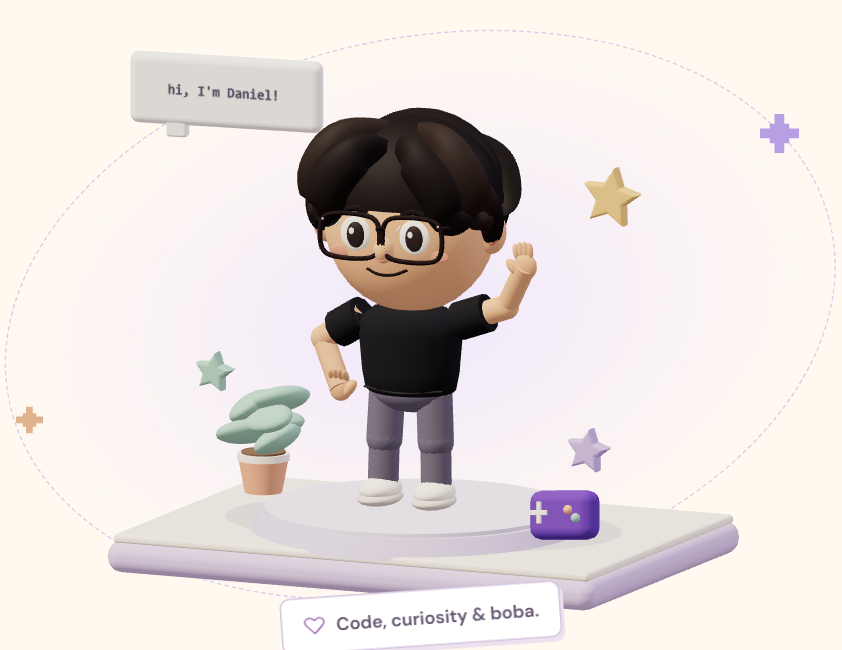
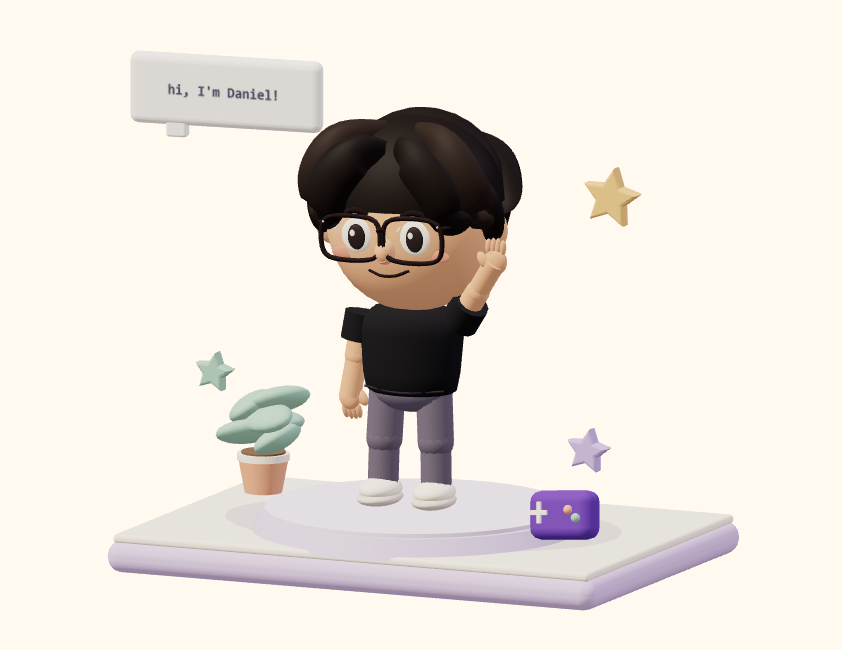
Fix wave hi intro

diff --git a/src/three/character.ts b/src/three/character.ts
@@ -1,4 +1,5 @@
 import * as THREE from 'three';
+import { GREETING_DURATION } from '../runtime/sequence';
 
 export type CharacterAction = 'wave' | 'order' | 'sip' | 'game' | 'code' | 'drink' | 'nap' | 'bench' | 'rest';
 export interface ChibiCharacter {
@@ -11,6 +12,7 @@ export interface ChibiCharacter {
 
 type Point = [number, number, number];
 const TAU = Math.PI * 2;
+const GREETING_ARM_LENGTH = .72;
 const Y_AXIS = new THREE.Vector3(0, 1, 0);
 
 /**
@@ -56,10 +58,10 @@ export function createCharacter(): ChibiCharacter {
     const mesh = new THREE.Mesh(geometry(new THREE.TubeGeometry(curve, Math.max(16, points.length * 5), width, 6, closed)), mat);
     mesh.name = name; mesh.castShadow = true; parent.add(mesh); return mesh;
   }
-  function segment(name: string, radius: number, mat: THREE.Material): THREE.Mesh {
+  function segment(name: string, radius: number, mat: THREE.Material, parent: THREE.Object3D = root): THREE.Mesh {
     const mesh = new THREE.Mesh(cylinder, mat);
     mesh.name = name; mesh.scale.set(radius, 1, radius);
-    mesh.castShadow = true; mesh.receiveShadow = true; root.add(mesh); return mesh;
+    mesh.castShadow = true; mesh.receiveShadow = true; parent.add(mesh); return mesh;
   }
 
   // T-shirt is a smooth lathed silhouette, flattened front-to-back.
@@ -177,8 +179,8 @@ export function createCharacter(): ChibiCharacter {
     mesh.scale.y = Math.max(.001, length);
     mesh.quaternion.setFromUnitVectors(Y_AXIS, direction.normalize());
   }
-  function makeHand(side: number) {
-    const group = new THREE.Group(); group.name = `${side < 0 ? 'Left' : 'Right'} wrist attachment`; root.add(group);
+  function makeHand(side: number, parent: THREE.Object3D) {
+    const group = new THREE.Group(); group.name = `${side < 0 ? 'Left' : 'Right'} wrist attachment`; parent.add(group);
     ellipsoid(group, 'Palm', [0, 0, 0], [.103, .115, .061], skin);
     const fingers: THREE.Group[] = [];
     for (let i = 0; i < 4; i++) {
@@ -190,30 +192,64 @@ export function createCharacter(): ChibiCharacter {
     return { group, fingers };
   }
   function makeArm(side: number) {
-    const shoulder = new THREE.Vector3(side * .435, 1.62, 0);
-    const upper = segment('Upper arm', .106, skin);
-    const sleeve = segment('Black T-shirt sleeve', .166, tee);
-    const forearm = segment('Forearm', .095, skin);
-    const elbowMesh = ellipsoid(root, 'Rounded elbow', [0, 0, 0], [.106, .106, .106], skin);
-    const hand = makeHand(side);
+    const shoulder = new THREE.Group();
+    shoulder.name = `${side < 0 ? 'Left' : 'Right'} shoulder pivot`;
+    shoulder.position.set(side * .435, 1.62, 0); root.add(shoulder);
+    const origin = new THREE.Vector3();
+    const upper = segment('Upper arm', .106, skin, shoulder);
+    const sleeve = segment('Black T-shirt sleeve', .166, tee, shoulder);
+    const forearm = segment('Forearm', .095, skin, shoulder);
+    const elbowMesh = ellipsoid(shoulder, 'Rounded elbow', [0, 0, 0], [.106, .106, .106], skin);
+    const hand = makeHand(side, shoulder);
     const target = new THREE.Vector3();
-    function set(x: number, y: number, z: number, fingers: number, waveAngle = 0) {
-      target.set(x, y, z); hand.group.position.copy(target); hand.group.rotation.set(0, 0, waveAngle);
+    const sleeveStart = new THREE.Vector3();
+    const handCompensation = new THREE.Quaternion();
+    function poseArm(fingers: number, handRoll: number, coverShoulder = false) {
+      hand.group.position.copy(target); hand.group.rotation.set(0, 0, handRoll);
       for (const finger of hand.fingers) finger.rotation.x = fingers;
-      // Two-segment planar IK, with the elbow biased outside the torso.
-      direction.subVectors(target, shoulder);
+      elbowMesh.position.copy(elbow);
+      connect(upper, origin, elbow); connect(forearm, elbow, target);
+      // Separate the sleeve and skin caps to prevent shoulder flickering.
+      sleeveStart.copy(elbow).normalize().multiplyScalar(coverShoulder ? -.018 : 0);
+      upperEnd.copy(elbow).multiplyScalar(.62); connect(sleeve, sleeveStart, upperEnd);
+    }
+    function set(x: number, y: number, z: number, fingers: number, handRoll = 0) {
+      shoulder.rotation.set(0, 0, 0);
+      target.set(x - shoulder.position.x, y - shoulder.position.y, z);
+      direction.copy(target);
       const distance = Math.max(.001, direction.length()); direction.divideScalar(distance);
       const armLength = .48;
       const height = Math.sqrt(Math.max(.002, armLength * armLength - distance * distance * .25));
-      bend.set(side, -.36, -.28).addScaledVector(direction, -bend.dot(direction)).normalize();
-      elbow.copy(shoulder).addScaledVector(direction, distance * .5).addScaledVector(bend, height);
-      elbowMesh.position.copy(elbow);
-      connect(upper, shoulder, elbow); connect(forearm, elbow, target);
-      upperEnd.copy(shoulder).lerp(elbow, .62); connect(sleeve, shoulder, upperEnd);
+      bend.set(side, -.36, -.28)
+        .addScaledVector(direction, -bend.dot(direction)).normalize();
+      elbow.copy(target).multiplyScalar(.5).addScaledVector(bend, height);
+      poseArm(fingers, handRoll);
     }
-    return { set, hand: hand.group };
+    function greetDirection(sideways: number, vertical: number, forward: number, fingers: number, handRoll: number) {
+      shoulder.rotation.set(0, Math.PI, 0);
+      // A fixed-length straight arm swings as one piece from the shoulder.
+      // Negative local Z becomes forward after the shoulder's half-turn.
+      target.set(-side * sideways, vertical, -forward)
+        .normalize().multiplyScalar(GREETING_ARM_LENGTH);
+      elbow.copy(target).multiplyScalar(.5);
+      poseArm(fingers, handRoll, true);
+    }
+    function greet(angle: number, forward: number, fingers: number, handRoll: number) {
+      greetDirection(Math.sin(angle), -Math.cos(angle), forward, fingers, handRoll);
+    }
+    function preserveHandFacing() {
+      // Keep the approved palm orientation after turning the parent shoulder.
+      handCompensation.copy(shoulder.quaternion).invert();
+      hand.group.quaternion.premultiply(handCompensation);
+    }
+    return { set, greet, greetDirection, preserveHandFacing, hand: hand.group };
   }
   const left = makeArm(-1), right = makeArm(1);
+  // Move the torso, neck and arms together, leaving the legs and feet planted.
+  const upperBody = new THREE.Group();
+  upperBody.name = 'Upper body greeting sway';
+  upperBody.add(...root.children.slice());
+  root.add(upperBody);
   function makeLeg(side: number) {
     const hip = new THREE.Vector3(side * .215, 1.0, 0);
     const knee = new THREE.Vector3(), ankle = new THREE.Vector3();
@@ -244,6 +280,7 @@ export function createCharacter(): ChibiCharacter {
     const t = Math.max(0, time);
     const seated = ['game', 'code', 'drink', 'nap', 'rest'].includes(action);
     leftLeg.set(seated, action === 'bench'); rightLeg.set(seated, action === 'bench');
+    upperBody.position.set(0, 0, 0); upperBody.rotation.set(0, 0, 0);
     head.position.set(0, 2.48, 0); head.rotation.set(0, 0, 0);
     const blinking = (t + .6) % 4.4 > 4.23;
     openEyes.visible = action !== 'nap' && !blinking;
@@ -254,9 +291,47 @@ export function createCharacter(): ChibiCharacter {
     left.set(-.61, .99, .08, .75); right.set(.61, .99, .08, .75);
 
     if (action === 'wave') {
-      const phase = t % 4;
-      const wave = phase < 2.5 ? Math.sin(phase * TAU * 1.6) : 0;
-      right.set(1.02 + wave * .10, 2.18 + Math.cos(phase * TAU * 1.6) * (phase < 2.5 ? .035 : 0), .17, 0, -.10 + wave * .26);
+      const phase = t % GREETING_DURATION;
+      // Quintic easing keeps both speed and acceleration soft at each hand-off.
+      const ease = (start: number, end: number) => THREE.MathUtils.smootherstep(phase, start, end);
+      const lift = ease(.25, 1.45) * (1 - ease(3.8, 4.9));
+      // Reach the raised pose, settle, and only then begin the wrist waves.
+      const waving = ease(1.65, 1.95) * (1 - ease(3.2, 3.6));
+      const beat = (phase - 1.65) * TAU / .9;
+      const wave = -Math.sin(beat) * waving;
+      const follow = -Math.sin(beat - .42) * waving;
+      const breath = Math.sin(phase / GREETING_DURATION * TAU);
+      const nod = ease(.6, 1.25) * (1 - ease(1.55, 2.3));
+
+      // Short, straight arms stay beside the torso; fingers point down at rest.
+      left.greet(.14 + breath * .012, .055, .36, Math.PI + .06);
+      left.hand.rotation.y = -.16;
+      // Pitch through the front (YZ plane), rather than lifting out to the side.
+      // Keep the idle vector and front-first lift, then reach higher beside the head.
+      const restPitch = Math.atan2(.055, Math.cos(.14));
+      const planeRadius = Math.hypot(Math.cos(.14), .055);
+      const pitch = restPitch + (2.85 - restPitch) * lift + .018 * follow;
+      // Add clearance late in the lift so the upright hand stays outside the face.
+      const headClearance = THREE.MathUtils.smootherstep(lift, .55, 1);
+      right.greetDirection(Math.sin(.14) * (1 - headClearance) + .66 * headClearance + .018 * follow,
+        -Math.cos(pitch) * planeRadius, Math.sin(pitch) * planeRadius,
+        .36 * (1 - lift) + .055 * lift,
+        -Math.PI - .16 * lift - .23 * wave);
+      right.hand.rotation.y = .14 * (1 - lift) + .075 * follow;
+      // Point the open hand toward the sky once the arm reaches its raised pose.
+      right.hand.rotation.x = -(Math.PI - .1) * lift + .04 * follow;
+      // Roll around each hand's own finger axis, preserving the wave direction.
+      left.hand.rotateY(Math.PI);
+      right.hand.rotateY(Math.PI);
+      left.preserveHandFacing();
+      right.preserveHandFacing();
+
+      upperBody.rotation.z = -.012 * lift + .006 * breath;
+      upperBody.rotation.y = .016 * lift;
+      upperBody.position.y = .004 * breath;
+      head.rotation.x = .045 * nod;
+      head.rotation.y = -.035 * lift;
+      head.rotation.z = .025 * lift + .006 * breath;
     } else if (action === 'order') {
       const reach = Math.min(1, t / 1.3);
       right.set(.45 - reach * .16, 1.34, .45 + reach * .28, .5);

diff --git a/src/three/studio.tsx b/src/three/studio.tsx
@@ -4,7 +4,7 @@ import { Canvas, useFrame, useThree } from '@react-three/fiber';
 import { OrbitControls } from '@react-three/drei';
 import { createDiorama } from './dioramas';
 import type { CharacterAction } from './character';
-import { sceneKinds, type SceneKind } from '../runtime/sequence';
+import { GREETING_PREVIEW_TIME, sceneKinds, type SceneKind } from '../runtime/sequence';
 
 const actions: Record<SceneKind, CharacterAction[]> = { hero: ['wave'], about: ['order','sip'], skills: ['game'], projects: ['code','drink','nap'], experience: ['bench','rest'] };
 function Model({ kind, action, time, play }: { kind: SceneKind; action: CharacterAction; time: number; play: boolean }) {
@@ -32,8 +32,8 @@ function Model({ kind, action, time, play }: { kind: SceneKind; action: Characte
 function Studio() {
   const [kind, setKind] = useState<SceneKind>('hero');
   const [action, setAction] = useState<CharacterAction>('wave');
-  const [time, setTime] = useState(.8);
+  const [time, setTime] = useState(GREETING_PREVIEW_TIME);
   const [play, setPlay] = useState(false);
-  return <><header><h1>Daniel · scene studio</h1><select aria-label="Scene" value={kind} onChange={event => { const k = event.target.value as SceneKind; setKind(k); setAction(actions[k][0]); setTime(.8); }}>{sceneKinds.map(k => <option key={k}>{k}</option>)}</select><select aria-label="Activity" value={action} onChange={event => setAction(event.target.value as CharacterAction)}>{actions[kind].map(a => <option key={a}>{a}</option>)}</select><label>Time <input aria-label="Pose time" type="range" min="0" max="6" step=".01" value={time} onChange={event => { setPlay(false); setTime(Number(event.target.value)); }}/>{time.toFixed(2)}s</label><button onClick={() => setPlay(!play)}>{play ? 'Pause' : 'Play'}</button><button onClick={() => window.dispatchEvent(new Event('export-model'))}>Export pose as GLB</button><small>Drag to orbit · scroll to zoom · animations live in TypeScript</small></header><div id="stage"><Canvas orthographic camera={{ zoom: 125, near: .1, far: 100 }} dpr={[1,1.5]} gl={{ antialias: true, preserveDrawingBuffer: true }}><ambientLight color="#fff9f0" intensity={.8}/><hemisphereLight args={['#fff9ef','#a394ad',.8]}/><directionalLight position={[-4,8,6]} color="#fff4e4" intensity={2.5}/><directionalLight position={[5,4,-3]} color="#dcd6ff" intensity={.8}/><Model kind={kind} action={action} time={time} play={play}/></Canvas></div></>;
+  return <><header><h1>Daniel · scene studio</h1><select aria-label="Scene" value={kind} onChange={event => { const k = event.target.value as SceneKind; setKind(k); setAction(actions[k][0]); setTime(k === 'hero' ? GREETING_PREVIEW_TIME : .8); }}>{sceneKinds.map(k => <option key={k}>{k}</option>)}</select><select aria-label="Activity" value={action} onChange={event => setAction(event.target.value as CharacterAction)}>{actions[kind].map(a => <option key={a}>{a}</option>)}</select><label>Time <input aria-label="Pose time" type="range" min="0" max="6" step=".01" value={time} onChange={event => { setPlay(false); setTime(Number(event.target.value)); }}/>{time.toFixed(2)}s</label><button onClick={() => setPlay(!play)}>{play ? 'Pause' : 'Play'}</button><button onClick={() => window.dispatchEvent(new Event('export-model'))}>Export pose as GLB</button><small>Drag to orbit · scroll to zoom · animations live in TypeScript</small></header><div id="stage"><Canvas orthographic camera={{ zoom: 125, near: .1, far: 100 }} dpr={[1,1.5]} gl={{ antialias: true, preserveDrawingBuffer: true }}><ambientLight color="#fff9f0" intensity={.8}/><hemisphereLight args={['#fff9ef','#a394ad',.8]}/><directionalLight position={[-4,8,6]} color="#fff4e4" intensity={2.5}/><directionalLight position={[5,4,-3]} color="#dcd6ff" intensity={.8}/><Model kind={kind} action={action} time={time} play={play}/></Canvas></div></>;
 }
 createRoot(document.getElementById('studio')!).render(<Studio/>);

diff --git a/src/runtime/sequence.ts b/src/runtime/sequence.ts
@@ -2,12 +2,14 @@ export const sceneKinds = ['hero', 'about', 'skills', 'projects', 'experience'] 
 export type SceneKind = typeof sceneKinds[number];
 export type Action = 'wave' | 'order' | 'sip' | 'game' | 'code' | 'drink' | 'nap' | 'bench' | 'rest';
 export interface Activity { action: Action; time: number }
+export const GREETING_DURATION = 6;
+export const GREETING_PREVIEW_TIME = 1.9;
 
 /** Elapsed seconds advance only while visible. Boundaries are deliberate hard cuts. */
 export function activityAt(kind: SceneKind, elapsed: number, reduced = false): Activity {
-  if (reduced) return { action: { hero: 'wave', about: 'sip', skills: 'game', projects: 'code', experience: 'rest' }[kind] as Action, time: kind === 'hero' ? .8 : 1 };
+  if (reduced) return { action: { hero: 'wave', about: 'sip', skills: 'game', projects: 'code', experience: 'rest' }[kind] as Action, time: kind === 'hero' ? GREETING_PREVIEW_TIME : 1 };
   const t = Math.max(0, elapsed);
-  if (kind === 'hero') return { action: 'wave', time: t % 4 };
+  if (kind === 'hero') return { action: 'wave', time: t % GREETING_DURATION };
   if (kind === 'skills') return { action: 'game', time: t };
   if (kind === 'about') return t < 2.4 ? { action: 'order', time: t } : { action: 'sip', time: (t - 2.4) % 4 };
   if (kind === 'projects') {

diff --git a/src/runtime/sequence.test.ts b/src/runtime/sequence.test.ts
@@ -20,4 +20,13 @@ test('offscreen and paused clocks stay unchanged; delayed frames cannot skip an 
 test('reduced motion has stable representative poses', () => {
   assert.deepEqual(activityAt('experience', 500, true), activityAt('experience', 0, true));
   assert.equal(activityAt('about', 0, true).action, 'sip');
+  assert.deepEqual(activityAt('hero', 500, true), { action: 'wave', time: 1.9 });
+});
+
+test('the greeting has time to raise, wave, and rest before its six-second repeat', () => {
+  for (const t of [0, .25, 1.9, 3.8, 4.9, 5.999]) {
+    assert.deepEqual(activityAt('hero', t), { action: 'wave', time: t });
+  }
+  assert.deepEqual(activityAt('hero', 6), { action: 'wave', time: 0 });
+  assert.deepEqual(activityAt('hero', 7.5), { action: 'wave', time: 1.5 });
 });

diff --git a/docs/VERIFICATION.md b/docs/VERIFICATION.md
@@ -8,8 +8,8 @@ This record describes checks on the local portfolio implementation. It does not 
 | --- | --- |
 | TypeScript | Type checking passed. |
 | Production build | Vite build and HTML prerender completed. |
-| Sequence unit tests | All five tests passed. |
-| Browser regression suite | All 37 tests passed in 1.9 minutes after the mobile layout fixes. No tests were skipped. |
+| Sequence unit tests | All six tests passed, including the six-second greeting cycle and its reduced-motion pose. |
+| Browser regression suite | All 37 tests passed in 1.8 minutes after the initial greeting update. After the front-to-up lift and delayed wave update, three focused checks for pause persistence, reduced motion and scene-viewer controls passed. |
 | Mobile layout audit | Phone widths 320, 375, 390 and 430px, tablet width 768px, and landscape sizes 667×375 and 844×390 were inspected. Expanded content has no horizontal overflow; the introduction, primary links and résumé fit the first screen on short 568px-high phones. |
 | Mobile touch targets | Navigation, motion control, résumé, project/contact/social links, and disclosure summaries have at least 44px-high tap areas. Narrow navigation labels remain separated. |
 | Short mobile viewers | All five viewers at four short portrait/landscape sizes keep Close visible and tappable after expanding notes and scrolling to the bottom. Real coordinate clicks confirm no overlapping layer blocks it; focus returns to the launch button. |
@@ -32,11 +32,13 @@ This record describes checks on the local portfolio implementation. It does not 
 | Character pose geometry | All nine activity poses produced finite bounds; targeted character TypeScript checking passed. |
 | Bench-press grip alignment | 151 sampled poses across five seconds; maximum measured perpendicular hand-to-bar-axis error was 0 model units. |
 | Resting bar | The lifting bar is hidden and the racked bar is visible at the expected rack height. |
-| Facial and greeting poses | Nap hides open eyes and shows closed eyes; the waving wrist changes independently while the head position remains stable. |
-| Static GLB export | 665,784-byte export after adding invisible prop anchors; the `glTF` signature, version 2 header, and declared file length passed checks. |
+| Facial and greeting poses | Nap hides open eyes and shows closed eyes. Across 733 greeting samples at 120 Hz, feet stay planted and the six-second loop closes without a position jump. Both arms remain straight, with connected joints, a 0.72-unit reach and 0.36-unit segments: 25% shorter than their previous 0.96-unit total length. |
+| Greeting direction and timing | Mid-lift forward movement is 0.708 units versus 0.100 sideways. The raised wrist stays at least 0.572 units above its shoulder, with fingers within 23 degrees of screen-up and the hand beside the face. It settles from 1.45 to 1.65 seconds with no wrist movement, then waves. The approved idle pose and resting arm are retained. |
+| Static GLB export | The updated greeting exports successfully; the `glTF` signature, version 2 header, and declared file length passed checks. |
 | Model night lighting | All five dioramas passed ten lighting samples, including interpolation, clamping and reset; geometry, ordinary colors, active poses and resource disposal remained correct. |
 | Static fallbacks | All five PNGs were regenerated from the actual Three.js scenes after final framing and gym layout corrections. |
 | Boba fallback variants | About previews were regenerated for milk tea, matcha, and taro; seven total scene preview assets are available. |
+| Greeting fallback | Hero preview regenerated from the raised-hand pose at 1.9 seconds, with HTML controls and decorations excluded from the image. |
 | Content and local assets | 49 skills, two projects, four employers, both CSL date ranges, the résumé PDF, and the five scene PNGs passed browser checks. |
 | Opening layouts | The avatar and primary CTA are visible in the checked desktop, tablet, phone, and narrow layouts; no horizontal overflow was detected. |
 | Keyboard behavior | Skip link, visible focus, and expandable details passed the browser checks. |
@@ -48,7 +50,7 @@ This record describes checks on the local portfolio implementation. It does not 
 | WebGL failure handling | Disabled WebGL, an injected scene-factory failure, and an actual WebGL context-loss event retained or restored static previews. |
 | Visual regression comparison | No prior visual baseline exists; a comparison is inconclusive. Current page and scene screenshots were inspected. |
 
-The sequence tests cover coding transitions at 6/8/11 seconds, the once-only boba introduction, gym transitions at 5/9 seconds, paused and offscreen clocks, delayed-frame clamping, and stable reduced-motion selections.
+The sequence tests cover the six-second greeting, coding transitions at 6/8/11 seconds, the once-only boba introduction, gym transitions at 5/9 seconds, paused and offscreen clocks, delayed-frame clamping, and stable reduced-motion selections.
 
 Visual inspection prompted adjustments to keyboard and mouse placement, hand heights, distinct drink heights, the closed-eye nap pose, bent bench-press legs, foot placement, and scene props. These are stylized illustrations rather than a biomechanical simulation or a photogrammetric reconstruction of the supplied portrait.
 
@@ -60,7 +62,7 @@ The final production build and prerender completed with these reported output si
 
 | Output | Uncompressed | Gzip |
 | --- | ---: | ---: |
-| Lazy Three.js scene chunk | 950.40 kB | 255.21 kB |
+| Lazy Three.js scene chunk | 951.80 kB | 255.69 kB |
 | Core application JavaScript | 241.04 kB | 75.46 kB |
 | CSS | 58.05 kB | 12.45 kB |
 | Prerendered HTML | 44,770 bytes | Not measured |
@@ -69,7 +71,7 @@ The scene chunk is substantial and loads separately from the portfolio content. 
 
 ## Final verification status
 
-The mobile update passed production build/type checking and all 37 browser tests, including three new mobile regression cases. The previous five sequence tests and model checks remain applicable; no animation or model code changed in this update.
+The initial greeting update passed production build/type checking, six sequence tests, all 37 browser tests, and the character and night-lighting model checks. The front-to-up lift passed three focused browser checks. The subsequent higher, upright wave passed a fresh production build and character model checks across 733 frames. Raised poses and both wave extremes were visually inspected; the static hero preview was regenerated to match.
 
 Manual Chromium mobile emulation used the loaded Google Fonts and touch input. Page sections, expanded details, night mode, and short landscape viewers were inspected. Improvements address previously undersized links, primary hero links below the first screen on short phones, and the viewer's Close button scrolling out of view. The introduction now precedes the illustration in the document as well as the mobile layout, preserving a sensible keyboard order. Desktop remains side by side. Tests also confirm that clickable props remain free of visible plus overlays.
 

diff --git a/README.md b/README.md
@@ -68,7 +68,7 @@ To adjust the character's appearance, edit the palette, proportions, hair sweep 
 
 | Scene | Sequence |
 | --- | --- |
-| Hero | Four-second wave-and-pause loop |
+| Hero | Six-second greeting: lift through the front, reach high beside the head with upright fingers, settle, then wave; short straight arms, unchanged idle, subtle nod and upper-body sway |
 | About | Order and receive boba for 2.4 visible seconds once, then continue sipping |
 | Skills | Continuous gaming, keyboard taps, mouse movement, and blinking |
 | Projects | Code for 6 seconds, drink Coke Zero for 2 seconds, nap for 3 seconds, repeat |
@@ -186,6 +186,8 @@ npm.cmd run capture
 ```
 
 This writes `hero.png`, `about.png`, `about-matcha.png`, `about-taro.png`, `skills.png`, `projects.png`, and `experience.png` under `public/previews/`. Rebuild afterward so `dist/` receives the updated assets. Commit the previews with source changes that alter a scene's appearance.
+
+Use `npm run capture -- --hero` to refresh only the greeting preview. The hero's reduced-motion and studio preview uses the raised-hand pose at 1.9 seconds.
 
 ## Design tokens
 
